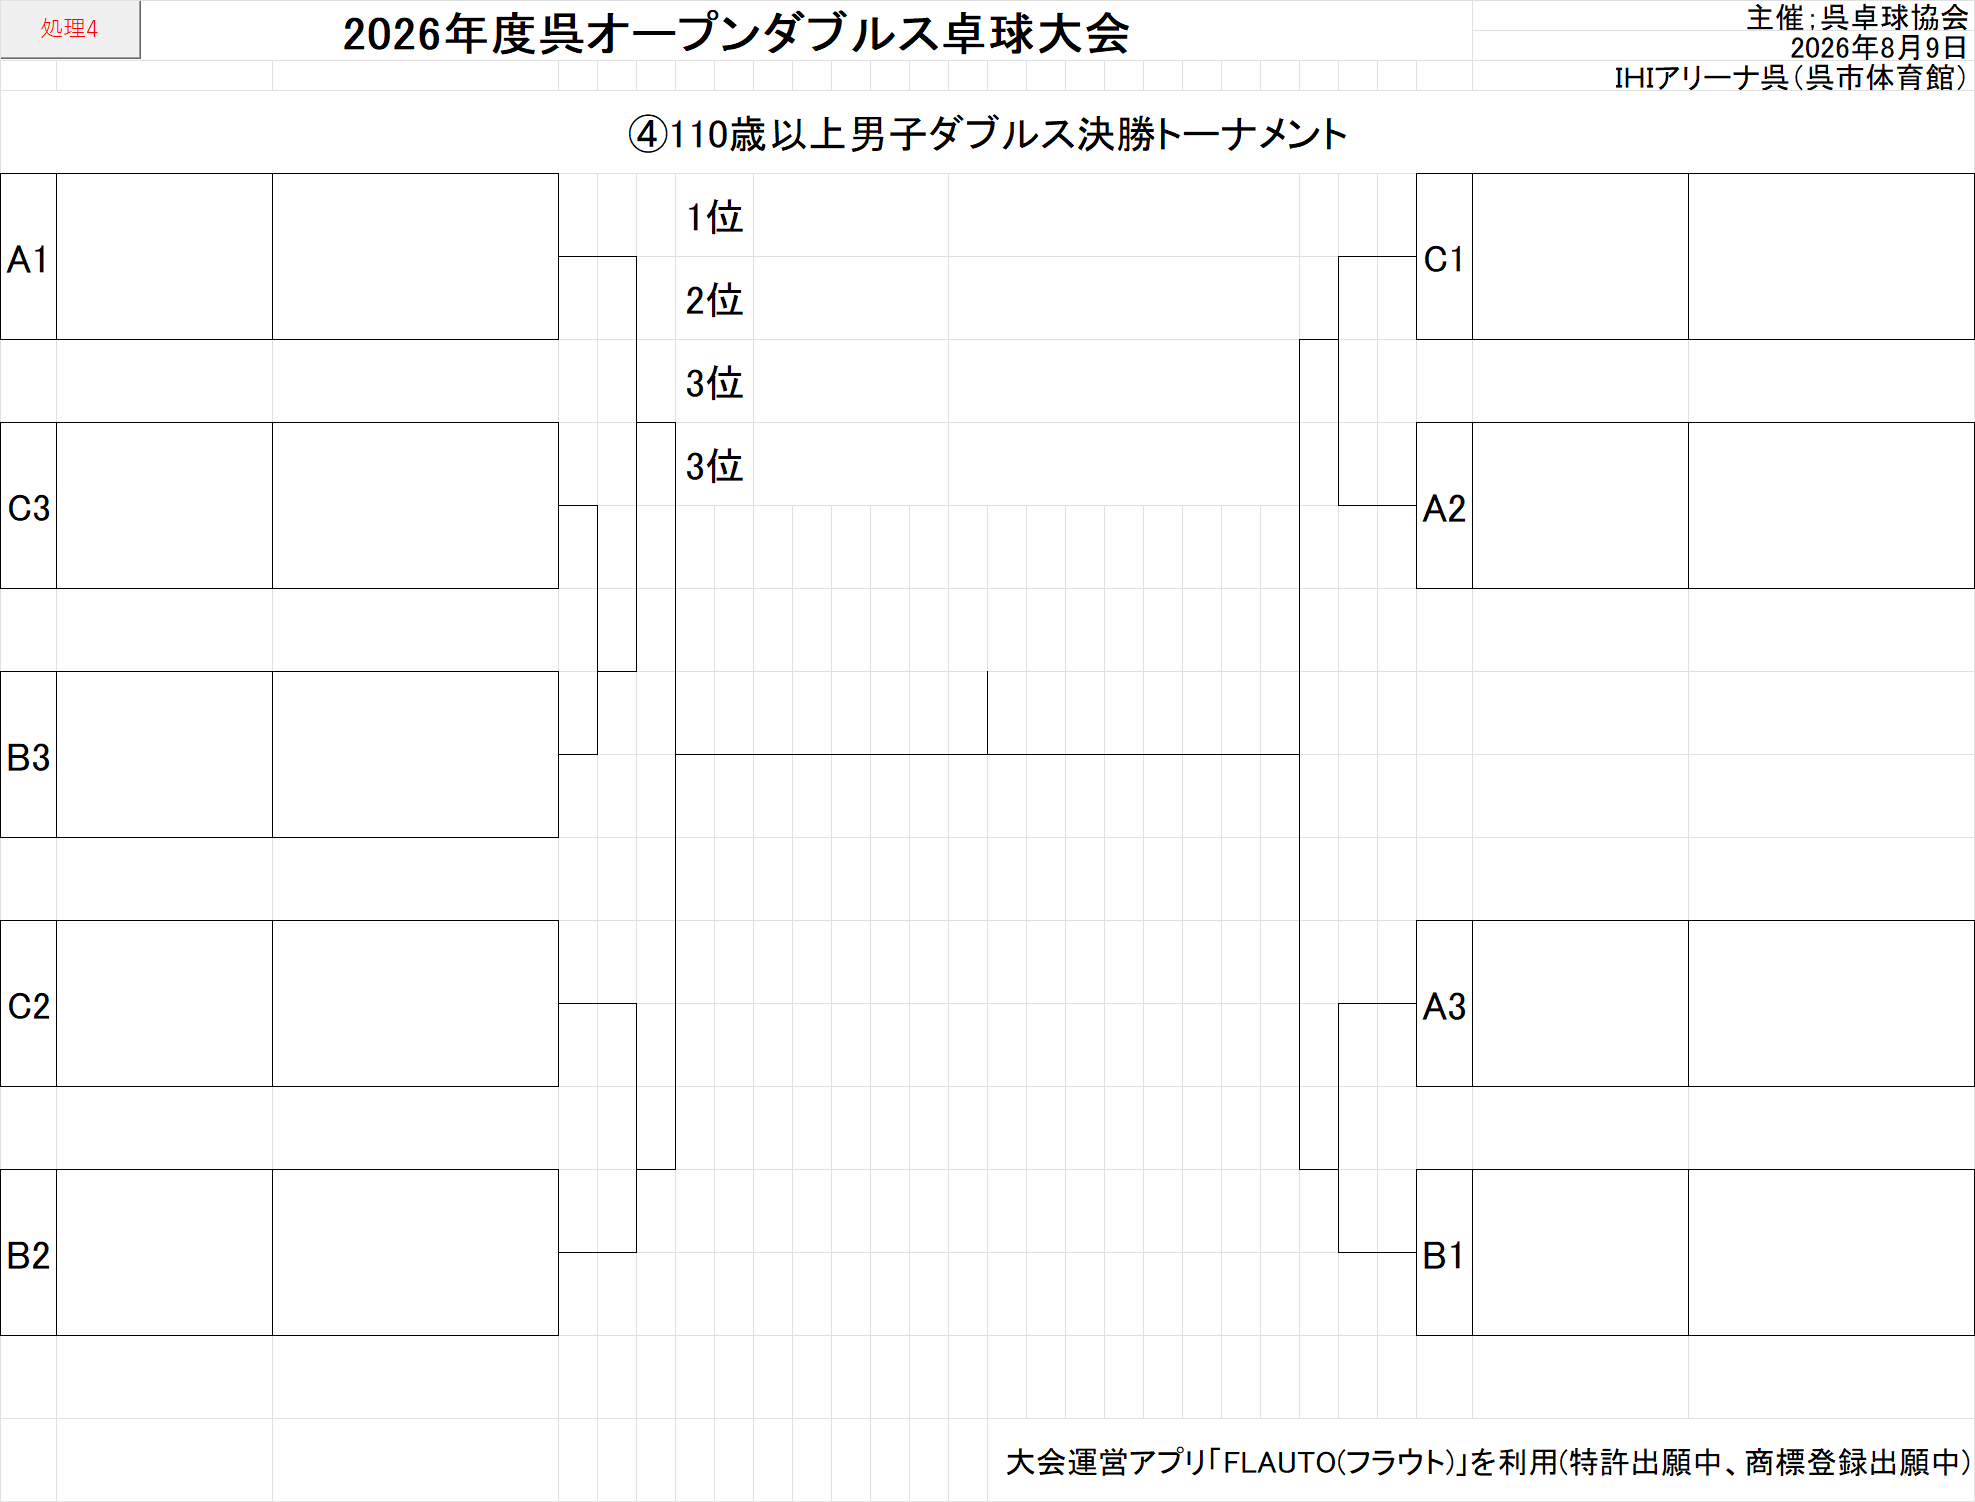
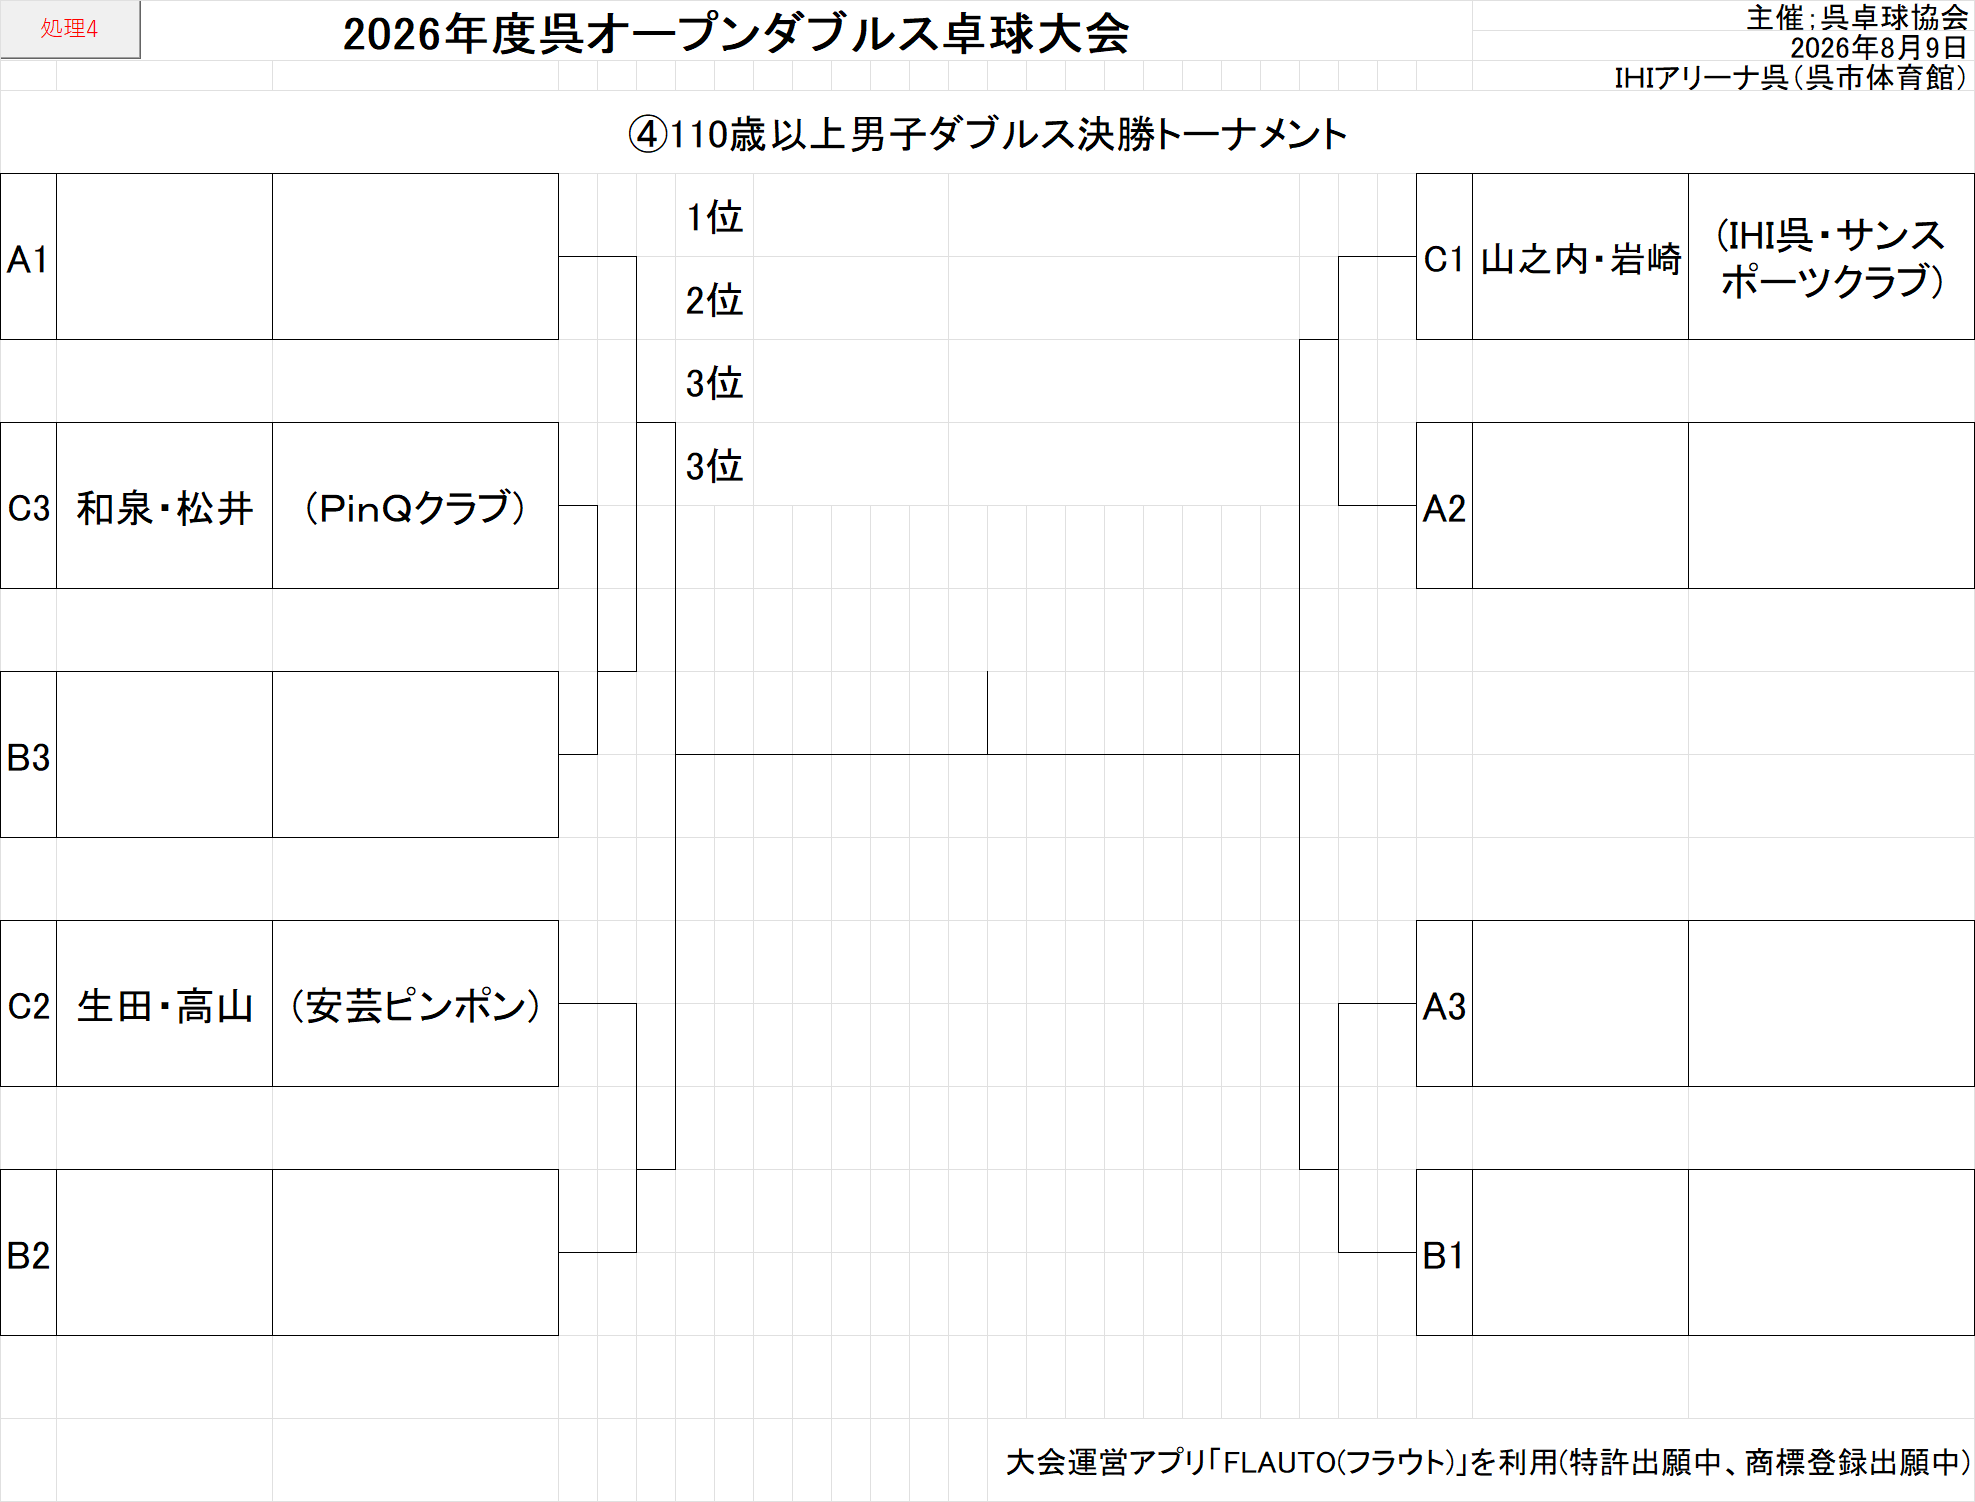
速報更新 2026年08月09日 09:43:27

diff --git a/index.html b/index.html
@@ -57,27 +57,27 @@
   </div>
   <div class="header-left">
     <span class="header-title">大会運営アプリ　ＦＬＡＵＴＯ</span>
-    <span class="header-info">更新：2026年08月09日 09:42:52</span>
+    <span class="header-info">更新：2026年08月09日 09:43:27</span>
   </div>
 </div>
-<div class='slide'><img src='img/0_呉オープンダブルス卓球大会_結果101.png?t=20260809094252' alt='結果101' /></div>
-<div class='slide'><img src='img/1_呉オープンダブルス卓球大会_結果101T.png?t=20260809094252' alt='結果101T' /></div>
-<div class='slide'><img src='img/2_呉オープンダブルス卓球大会_結果102.png?t=20260809094252' alt='結果102' /></div>
-<div class='slide'><img src='img/3_呉オープンダブルス卓球大会_結果102T.png?t=20260809094252' alt='結果102T' /></div>
-<div class='slide'><img src='img/4_呉オープンダブルス卓球大会_結果103.png?t=20260809094252' alt='結果103' /></div>
-<div class='slide'><img src='img/5_呉オープンダブルス卓球大会_結果103T.png?t=20260809094252' alt='結果103T' /></div>
-<div class='slide'><img src='img/6_呉オープンダブルス卓球大会_結果104.png?t=20260809094252' alt='結果104' /></div>
-<div class='slide'><img src='img/7_呉オープンダブルス卓球大会_結果104T.png?t=20260809094252' alt='結果104T' /></div>
-<div class='slide'><img src='img/8_呉オープンダブルス卓球大会_結果105.png?t=20260809094252' alt='結果105' /></div>
-<div class='slide'><img src='img/9_呉オープンダブルス卓球大会_結果105T.png?t=20260809094252' alt='結果105T' /></div>
-<div class='slide'><img src='img/10_呉オープンダブルス卓球大会_結果106.png?t=20260809094252' alt='結果106' /></div>
-<div class='slide'><img src='img/11_呉オープンダブルス卓球大会_結果106T.png?t=20260809094252' alt='結果106T' /></div>
-<div class='slide'><img src='img/12_呉オープンダブルス卓球大会_結果107.png?t=20260809094252' alt='結果107' /></div>
-<div class='slide'><img src='img/13_呉オープンダブルス卓球大会_結果107T.png?t=20260809094252' alt='結果107T' /></div>
-<div class='slide'><img src='img/14_呉オープンダブルス卓球大会_結果108.png?t=20260809094252' alt='結果108' /></div>
-<div class='slide'><img src='img/15_呉オープンダブルス卓球大会_結果108T.png?t=20260809094252' alt='結果108T' /></div>
-<div class='slide'><img src='img/16_呉オープンダブルス卓球大会_結果109.png?t=20260809094252' alt='結果109' /></div>
-<div class='slide'><img src='img/17_呉オープンダブルス卓球大会_結果109T.png?t=20260809094252' alt='結果109T' /></div>
+<div class='slide'><img src='img/0_呉オープンダブルス卓球大会_結果101.png?t=20260809094327' alt='結果101' /></div>
+<div class='slide'><img src='img/1_呉オープンダブルス卓球大会_結果101T.png?t=20260809094327' alt='結果101T' /></div>
+<div class='slide'><img src='img/2_呉オープンダブルス卓球大会_結果102.png?t=20260809094327' alt='結果102' /></div>
+<div class='slide'><img src='img/3_呉オープンダブルス卓球大会_結果102T.png?t=20260809094327' alt='結果102T' /></div>
+<div class='slide'><img src='img/4_呉オープンダブルス卓球大会_結果103.png?t=20260809094327' alt='結果103' /></div>
+<div class='slide'><img src='img/5_呉オープンダブルス卓球大会_結果103T.png?t=20260809094327' alt='結果103T' /></div>
+<div class='slide'><img src='img/6_呉オープンダブルス卓球大会_結果104.png?t=20260809094327' alt='結果104' /></div>
+<div class='slide'><img src='img/7_呉オープンダブルス卓球大会_結果104T.png?t=20260809094327' alt='結果104T' /></div>
+<div class='slide'><img src='img/8_呉オープンダブルス卓球大会_結果105.png?t=20260809094327' alt='結果105' /></div>
+<div class='slide'><img src='img/9_呉オープンダブルス卓球大会_結果105T.png?t=20260809094327' alt='結果105T' /></div>
+<div class='slide'><img src='img/10_呉オープンダブルス卓球大会_結果106.png?t=20260809094327' alt='結果106' /></div>
+<div class='slide'><img src='img/11_呉オープンダブルス卓球大会_結果106T.png?t=20260809094327' alt='結果106T' /></div>
+<div class='slide'><img src='img/12_呉オープンダブルス卓球大会_結果107.png?t=20260809094327' alt='結果107' /></div>
+<div class='slide'><img src='img/13_呉オープンダブルス卓球大会_結果107T.png?t=20260809094327' alt='結果107T' /></div>
+<div class='slide'><img src='img/14_呉オープンダブルス卓球大会_結果108.png?t=20260809094327' alt='結果108' /></div>
+<div class='slide'><img src='img/15_呉オープンダブルス卓球大会_結果108T.png?t=20260809094327' alt='結果108T' /></div>
+<div class='slide'><img src='img/16_呉オープンダブルス卓球大会_結果109.png?t=20260809094327' alt='結果109' /></div>
+<div class='slide'><img src='img/17_呉オープンダブルス卓球大会_結果109T.png?t=20260809094327' alt='結果109T' /></div>
 
 <script>
 var c=0,t=18;
